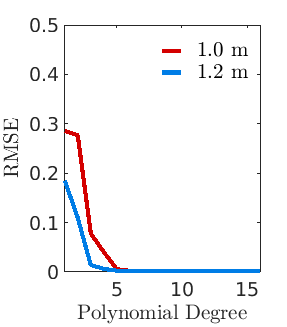
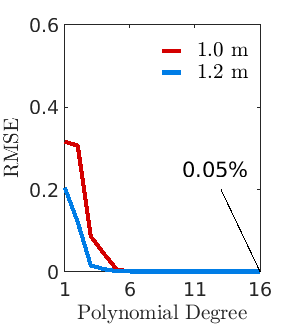
More documentation

diff --git a/paper/generateESFFigures.m b/paper/generateESFFigures.m
@@ -1,13 +1,17 @@
 %% Generate all figures related to Edge Spread Functions
 %
 % This script is an integration test for our RTF implementation in PBRT. 
-% We do this by calculating the edge spread functions (ESF) (on-axis) for several
-% depths. These ESF functions are compared to the ESF obtained with the
-% ZEMAX model. In all cases, for high enough polynomial degree, a near
-% perfect match is obtained.
-%
+% We do this by calculating the edge spread functions (ESF) (on-axis) for two distances
+% of a step function chart. These ESF functions are compared to the ESF obtained with the
+% ZEMAX model using zemax. In all cases, for high enough polynomial degree, a a good match is obtained.
+% 
+% We choose a high number of pixels (4000) to achieve submicron resolution and high number of rays per
+% pixel (20000) to minimze the contribution of rendering noise.
+% This is possible in reasonable amount of time because this script renders the scene for only one row
+% of pixels.
 % Thomas Goossens
-% January 2022
+% May 2022
+
 clear; close all
 ieInit;
 config={};
@@ -25,7 +29,7 @@ config{end}.distances = [3000 3500];
 config{end}.filmdistance_mm=18.667;
 config{end}.filmdiagonal_mm=2*45/100;
 config{end}.degrees=[1:16];
-config{end}.rays=5000;
+config{end}.rays=20000;
 config{end}.resolution=4000;
 config{end}.zemaxfileESF='data/ESF/esf-petzval.mat';
 
@@ -37,8 +41,8 @@ config{end}.distances = [3000 100]; % Distance of object as measured from lens f
 config{end}.filmdistance_mm=2.010; % Distance of sensor from rear vertex
 config{end}.filmdiagonal_mm=2*1.23/100; 
 config{end}.degrees=[1:12];
-config{end}.rays=2000; % Number of rays per film pixel to trace
-config{end}.resolution=2000; % Number of pixels (horizontally)
+config{end}.rays=20000; % Number of rays per film pixel to trace
+config{end}.resolution=4000; % Number of pixels (horizontally)
 config{end}.zemaxfileESF='data/ESF/esf-wideangle200deg.mat'; % Where to find the ZEMAX file with ESF and LSF data
 
 
@@ -52,7 +56,7 @@ config{end}.distances = [3000 40];
 config{end}.filmdistance_mm=1.195;
 config{end}.filmdiagonal_mm=2*2/100;
 config{end}.degrees=[1:16];
-config{end}.rays=5000;
+config{end}.rays=20000;
 config{end}.resolution=4000;
 config{end}.zemaxfileESF='data/ESF/esf-inversetelephoto.mat';
 
@@ -66,8 +70,8 @@ config{end}.distances = [1000 1200]
 config{end}.filmdistance_mm=67.768;
 config{end}.filmdiagonal_mm=150/100;
 config{end}.degrees=[1:16]; % Polynomial degrees to try
-config{end}.rays=4000;
-config{end}.resolution=1000;
+config{end}.rays=20000;
+config{end}.resolution=4000;
 config{end}.zemaxfileESF='data/ESF/esf-dgauss28deg.mat';
 
 
@@ -79,8 +83,8 @@ config{end}.distances = [3000 100]; % Distance of object as measured from lens f
 config{end}.filmdistance_mm=2.010; % Distance of sensor from rear vertex
 config{end}.filmdiagonal_mm=2*1.23/100; 
 config{end}.degrees=[1:16]; % Polynomial degrees to try
-config{end}.rays=5000; % Number of rays per film pixel to trace
-config{end}.resolution=2000; % Number of pixels (horizontally)
+config{end}.rays=20000; % Number of rays per film pixel to trace
+config{end}.resolution=4000; % Number of pixels (horizontally)
 config{end}.zemaxfileESF='data/ESF/esf-wideangle200deg.mat'; % Where to find the ZEMAX file with ESF and LSF data
 
 
@@ -95,8 +99,8 @@ config{end}.distances = [1267.384 2000]
 config{end}.filmdistance_mm=100;
 config{end}.filmdiagonal_mm=2*50.5/100;
 config{end}.degrees=[1:16];
-config{end}.rays=2000;
-config{end}.resolution=1000;
+config{end}.rays=20000;
+config{end}.resolution=4000;
 config{end}.zemaxfileESF='data/ESF/esf-tessar.mat';
 
 
@@ -111,8 +115,8 @@ config{end}.distances = [300 500]
 config{end}.filmdistance_mm=51.915;
 config{end}.filmdiagonal_mm=2.4;
 config{end}.degrees=[1:16];
-config{end}.rays=2000;
-config{end}.resolution=1000;
+config{end}.rays=20000;
+config{end}.resolution=4000;
 config{end}.zemaxfileESF='data/ESF/esf-cooke40deg.mat';
 
 
@@ -123,6 +127,7 @@ config{end}.zemaxfileESF='data/ESF/esf-cooke40deg.mat';
 %% Calculate ESF
 for i=1:numel(config)
     c=config{i};
+    
     disp(['Generate ESF for ' c.rtfname])
     [esf,pixels,noisefloorTemp]=calculateESF('rtfName',c.rtfname,'distances',c.distances,...
         'filmdistance',c.filmdistance_mm,'filmdiagonal',c.filmdiagonal_mm,...
@@ -153,11 +158,13 @@ for i=1:numel(config)
     fig=figure(i);clf;
     set(gca,'Yscale','log')
     plotESFerror(c.degrees,pixelsPBRT{i},c.distances,esfPBRT{i},noisefloor{i},esfZemax)
+    %set(gca,'Yscale','linear')
+    ylim([0 0.6])
+    xlim([1 16])    
+    %saveas(gcf,['./fig/ESF/esf-logerror-' c.rtfname '.png'])
+    
+    
     set(gca,'Yscale','linear')
-    ylim([0 0.5])
-    xlim([ 1 16])    
-          
-
     saveas(gcf,['./fig/ESF/esf-error-' c.rtfname '.png'])
 
         
@@ -171,7 +178,7 @@ for i=1:numel(config)
     
     
     disp(['Generate ESF Plots for ' c.rtfname])
-    aaaz
+
     % Load Zemax ESF File
     esfZemax= load(c.zemaxfileESF);esfZemax=esfZemax.lsf;
     

diff --git a/paper/generateChessSetLines.m b/paper/generateChessSetLines.m
@@ -1,4 +1,9 @@
 %% Compare rendered horizontal line across chesset scene for known lens and its corresponding RTF.
+% This script renders a single pixel row of chess set scenes for a collection of lenses.  The
+% scene is rendered for both the exact lens model and using a ray-transfer
+% function.
+% Because we render only one pixel row we can set the number or rays per
+% pixel to 20000 to minimize rendering noise.
 
 
 ieInit
@@ -13,7 +18,8 @@ colors=[0 0.49 0.90;0.83 0 0];
 
 
 %% RTF DEFINITIONS 
-% Below are listed all configurations to be simulated
+% Below are listed all configurations to be simulated. Configurations are
+% saved in cell array of structs.
 %%
 i=numel(config)+1;
 config{i}.name='tessar';
@@ -22,7 +28,7 @@ config{i}.filmdistance_mm=160;
 config{i}.rtffile= 'tessar-zemax-poly13-raytransfer.json';
 config{i}.sensordiagonal_mm=450;
 config{i}.filmresolution=4000;
-config{i}.raysperpixel=2000;
+config{i}.raysperpixel=20000;
 config{i}.omni_aperturediameter_mm=2*8.111;
 config{i}.hline = 0.5; % proportion of filmresolution
 
@@ -36,7 +42,7 @@ config{i}.filmdistance_mm=2.004;
 config{i}.rtffile= 'wideangle200deg-circle-zemax-poly11-raytransfer.json';
 config{i}.sensordiagonal_mm=3;
 config{i}.filmresolution=4000;
-config{i}.raysperpixel=2000;
+config{i}.raysperpixel=20000;
 config{i}.omni_aperturediameter_mm=2*0.62000000;
 config{i}.hline = 0.66; % proportion of filmresolution
  %From/to % Camera position Offset because else the horizontal line goes
@@ -50,11 +56,10 @@ i=numel(config)+1;
 config{i}.name='petzval';
 config{i}.lensfile='petzval-zemax.json';
 config{i}.filmdistance_mm=45;
-config{i}.rtffile= 'petzval-5mminput-zemax-poly8-circles-raytransfer.json';
-%config{i}.rtffile= 'petzval-zemax-poly8-raytransfer.json';
+config{i}.rtffile= 'petzval-5mminput-zemax-poly12-circles-raytransfer.json';
 config{i}.sensordiagonal_mm=150;
 config{i}.filmresolution=4000;
-config{i}.raysperpixel=2000;
+config{i}.raysperpixel=20000;
 config{i}.omni_aperturediameter_mm=28*2;
 config{i}.hline = 0.5; % proportion of filmresolution
 
@@ -68,7 +73,7 @@ config{i}.rtffile= 'cooke40deg-zemax-poly12-raytransfer.json';
 config{i}.filmdistance_mm=50;
 config{i}.sensordiagonal_mm=100;
 config{i}.filmresolution=4000;
-config{i}.raysperpixel=2000;
+config{i}.raysperpixel=20000;
 config{i}.omni_aperturediameter_mm=2*5;
 config{i}.hline = 0.5; % proportion of filmresolution
 
@@ -80,10 +85,10 @@ i=numel(config)+1;
 config{i}.name='dgauss28deg';
 config{i}.lensfile='dgauss.28deg-zemax.json';
 config{i}.filmdistance_mm=80;
-config{i}.rtffile= 'dgauss28deg-zemax-poly7-raytransfer.json';
+config{i}.rtffile= 'dgauss28deg-zemax-poly8-raytransfer.json';
 config{i}.sensordiagonal_mm=150;  % original 100
 config{i}.filmresolution=4000;
-config{i}.raysperpixel=2000;
+config{i}.raysperpixel=20000;
 config{i}.omni_aperturediameter_mm=2*10.229;
 config{i}.hline = 0.5; % proportion of filmresolution
 
@@ -92,11 +97,11 @@ config{i}.hline = 0.5; % proportion of filmresolution
 i=numel(config)+1;
 config{i}.name='inversetelephoto';
 config{i}.lensfile='inversetelephoto-zemax.json';
-config{i}.rtffile= 'inversetelephoto-zemax-poly6-raytransfer.json';
+config{i}.rtffile= 'inversetelephoto-zemax-poly8-raytransfer.json';
 config{i}.filmdistance_mm=1.2;
 config{i}.sensordiagonal_mm=2.5;
 config{i}.filmresolution=4000;
-config{i}.raysperpixel=2000;
+config{i}.raysperpixel=20000;
 config{i}.omni_aperturediameter_mm=2*0.166;
 config{i}.hline = 0.5; % proportion of filmresolution
 
@@ -140,6 +145,7 @@ for ic=1:numel(config)
     
     % Rendering Options
 
+    c.raysperpixel = 20000;
     thisR.set('pixel samples',c.raysperpixel)
     thisR.set('film diagonal',c.sensordiagonal_mm,'mm');
     
@@ -233,8 +239,8 @@ for ic=1:numel(config)
     % ISET3D causes some rescaling of the number of photons for the RTF, so we first peak
     % normalize before comparing the error.
     maxnorm=@(x)x/max(x);
-    A=maxnorm(hline(:,1));
-    B=maxnorm(hline(:,2));
+    A=maxnorm(hline(1:end,1));
+    B=maxnorm(hline(1:end,2));
     RMS(ic) = rms(A-B)
     text(3400,0.9,sprintf('RMSE: %0.3f',RMS(ic)))
     

diff --git a/paper/calculateRTFfromzemax.m b/paper/calculateRTFfromzemax.m
@@ -1,12 +1,14 @@
 %% Generate all ray transfer functions using txt file from ZEMAX macro
-%%
-%% Unzip the archive in isetrtf/paper/data/zemaxraytrace/ before running this script
-
-%%
+% This script generates rtf json files in data/rtf from the dataset
+% obtained using the zemax macro. The zemax dataset is found in
+% data/zemaxraytrace.
+% On Github the data is uploaded as a zipped archive.
+% Unzip the archive in isetrtf/paper/data/zemaxraytrace/ before running this script
+%
 % 2022 Thomas Goossens
 
+%%
 clear; close all;
-%outputDir = fullfile(piRootPath, 'data/lens/RTF');
 outputDir = fullfile('data/rtf/');
 
 
@@ -56,9 +58,7 @@ polynomialDegrees{end+1}=[1:16];
 
 %%%% Petzval 5mm planes
 lensName{end+1}='petzval-5mminput-zemax'
-%zemaxDataFile{end+1}='./data/zemaxraytrace/petzval-primaryWL1.txt';
 zemaxDataFile{end+1}='./data/zemaxraytrace/petzval_primarywl1_5mminput.txt';
-
 offset_sensorside{end+1}=5;
 offset_objectside{end+1}=5; %%mm
 lensThickness{end+1}=143.88312;
@@ -147,7 +147,7 @@ for i=1:numel(lensName)
         rtf=generateRTFfromIO(lensName{i},rtfName,iRays,oRays,offset_sensorside{i},offset_objectside{i},lensThickness{i},...
             'outputdir',outputDir,'visualize',false,'polynomialdegree',polyDeg,...
             'raypassplanedistance',17,'sparsitytolerance',0);
-        % Intersection plane sdistance  is the distance fron the input
+        % Intersection plane distance  is the distance fron the input
         % plane to the plane where the raypass function (ellipses) are
         % calculated. This is an arbitrary choice.
     end

diff --git a/paper/functions/plotESFerror.m b/paper/functions/plotESFerror.m
@@ -17,13 +17,17 @@ for i=1:numel(distances)
    edgeResampled=interp1(pixels,esfPBRT(:,d,i),pixelsZemax);
    ignoreNan = ~isnan(edgeResampled);
    ignoreZero= ~(edgeZemax==0);
-   %ignoreOne = ~(edgeZemax==1);
-   ignore = and(ignoreZero,ignoreNan);
+   ignoreOne = ~(edgeZemax==1);
+   ignore = and(ignoreOne,and(ignoreZero,ignoreNan));
 
    % To normalize the saturation value, given the possible presence of rendering noise,
    % we divide by the maxmimum of a smoothed ESF.
    N=10;
-   edgeIgnoreNan=edgeResampled(ignoreNan);
+   %Flip and sort to make sur we will use the N largest values for normalization.
+   % Because the ESF can become exactly zero, this avoids accidental
+   % divisions by zero
+   edgeIgnoreNan=flip(sort(edgeResampled(ignoreNan))); 
+   
    edgeResampled = edgeResampled/mean(edgeIgnoreNan(1:N)); % Smooth out some of the rendering noise to make the edge converge to one
       
    % Compare width of ESF
@@ -41,16 +45,19 @@ colorpassblue = [0 49 90]/100;
 color =[0.833 0 0 ; colorpassblue]
 for p=1:numel(distances)
     h(p)=plot(degrees,error(:,p),'linewidth',2,'color',color(p,:))
+   
     %line([degrees(1) degrees(end)],[renderNoiseFloor renderNoiseFloor],'color','k','linewidth',2,'linestyle','--')
    
 end
 xlabel('Polynomial Degree')
 ylabel('RMSE')
 %xticks(degrees([1:3:end-1 end]))
-
+xticks([1 6 11 16])
 % Figure styles
 box on
 
+text(10,0.25,[num2str(round(min(error(:))*100,2)) '%'])
+line([13 16],[0.2 min(error(end,:))],'color','k')
 
 
 %set(findall(gcf,'-property','FontSize'),'FontSize',10);

diff --git a/paper/generateChessSets.m b/paper/generateChessSets.m
@@ -1,4 +1,9 @@
 %% Compare rendered chess set scene for known lens and its corresponding RTF.
+% This script renders a chess set scenes for a collection of lenses.  The
+% scene is rendered for both the exact lens model and using a ray-transfer
+% function.
+
+
 
 ieInit
 if ~piDockerExists, piDockerConfig; end
@@ -15,6 +20,10 @@ colors=[0 0.49 0.90;0.83 0 0];
 
 %% RTF DEFINITIONS 
 % Below are listed all configurations to be simulated
+% config is a cell array containing structs representing the configuration
+% for a particular simulation.
+% You can either run the script as a whole, or only add the lenses you want
+% to simulate
 %%
 i=numel(config)+1;
 config{i}.name='tessar';
